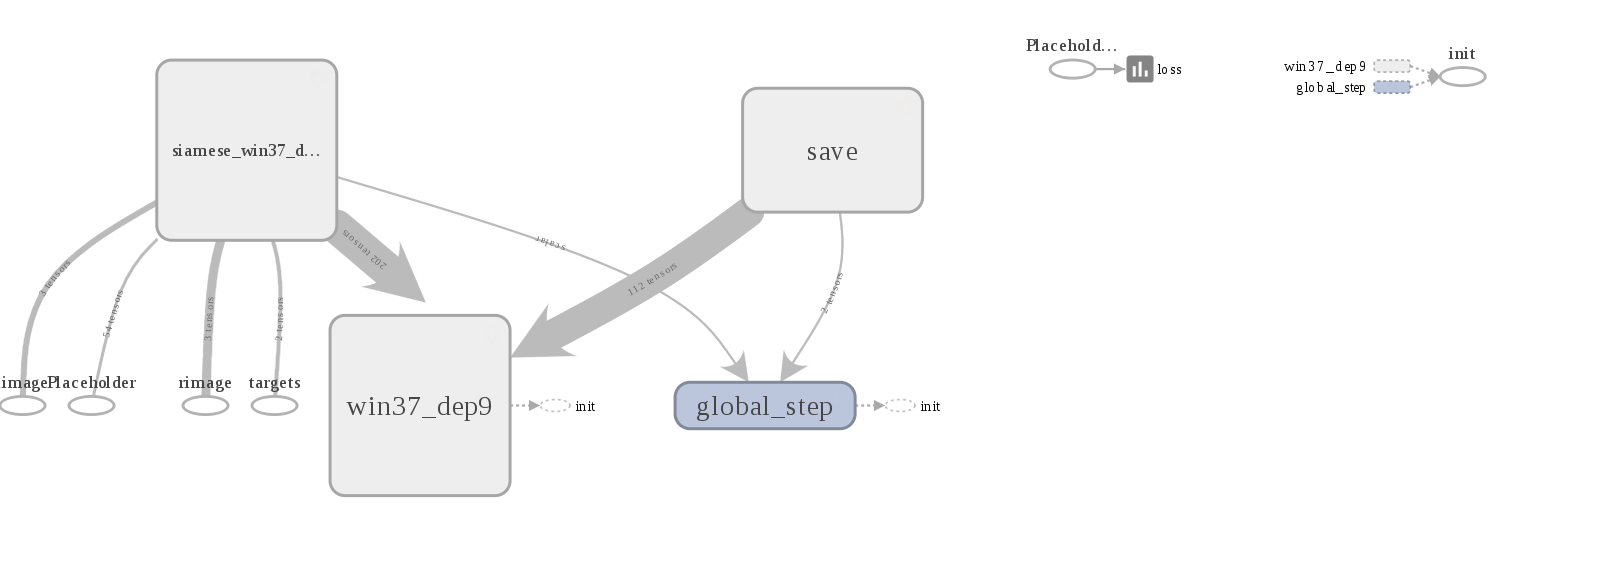
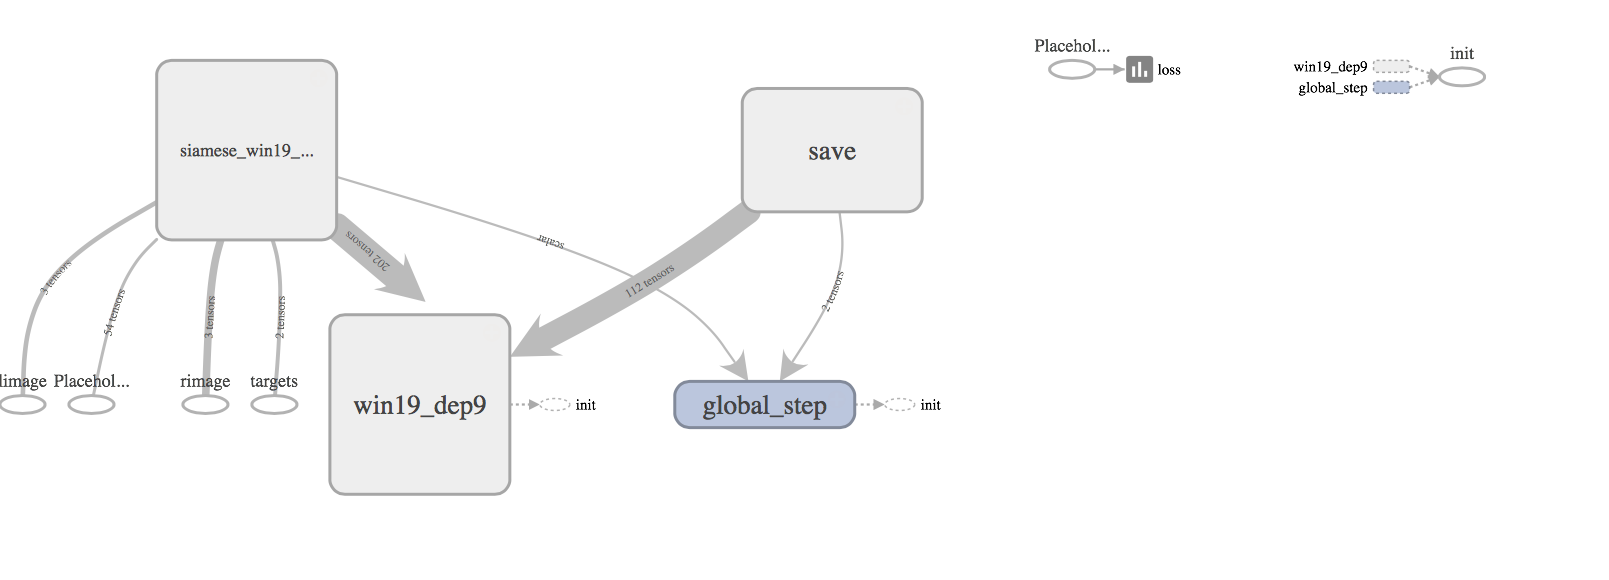
Update readme

diff --git a/models/net_factory.py b/models/net_factory.py
@@ -1,6 +1,6 @@
 import tensorflow as tf
-import win19_dep9 as net19
-import win37_dep9 as net37
+import models.win19_dep9 as net19
+import models.win37_dep9 as net37
 from tensorflow.python.ops import control_flow_ops
 slim = tf.contrib.slim
 

diff --git a/test_images.py b/test_images.py
@@ -1,6 +1,6 @@
 import tensorflow as tf
 import os
-import net_factory as nf
+import models.net_factory as nf
 import numpy as np
 from data_handler import Data_handler
 from scipy import misc

diff --git a/train.py b/train.py
@@ -1,6 +1,6 @@
 import tensorflow as tf
 import os
-import net_factory as nf
+import models.net_factory as nf
 import numpy as np
 from data_handler import Data_handler
 

diff --git a/README.md b/README.md
@@ -9,20 +9,62 @@ at: https://bitbucket.org/saakuraa/cvpr16_stereo_public/overview
 #### Detailed view
 ![](figures/win_37_dep9_graph_detail.png)
 
-### Results
-Current results using win19_dep9 and win37_dep9 architectures, trained over 24 000 training steps (batch size = 128).
 
-| Network  | Val. >3 error | Test >3 error | Runtime (sec.) |
-| ------------- | ------------- |------------- | ------------- |
-| win19_dep9   |  10.00 | x   |  x |
-| win37_dep9  | 7.59  | y   |  x |
+## Installation
+1. Install Tensorflow
 
-### Training
-Cross-entropy Loss evolution (horizontal axes represent the the number of iterations * 100):
-(green=win19_dep9, yellow=win37_dep9)
+2. Clone the repository 
+
+```
+git clone https://github.com/fjulca-aguilar/dl_stereo_matching.git
+```
+## Training new models
+New models can be trained using
+
+```
+python train.py --util_root=PATH_BINARY \
+--data_root=PATH_DATABASE \
+--net_type=win19_dep9 \
+--patch_size=19 \
+--model_dir=MODEL_DIR \
+--phase=train &
+```
+The training and evaluation schemes use the same training data and 
+similar parameters to the ones defined at 
+https://bitbucket.org/saakuraa/cvpr16_stereo_public/overview
+
+Training evolution and graphs can be seen using Tensorboard. 
+The following image shows examples of Cross-entropy Loss 
+evolution for 40 000 training steps (horizontal axes represent the the number of 
+iterations * 100): (blue = win19_dep9, green = win37_dep9)
 
 ![](figures/loss.png)
 
 
+## Evaluation on validation patches
+Trained models can be evaluated on validation patches using
 
+```
+python train.py --util_root=PATH_BINARY \
+--data_root=PATH_DATABASE \
+--net_type=win19_dep9 \
+--patch_size=19 
+--model_dir=MODEL_DIR
+--phase=evaluate &
+```
 
+## Testing on images 
+Evaluation on images can be done using
+
+```
+python test_images.py \ 
+--out_dir=OUT_IMAGES_DIR \
+--model_dir=MODEL_DIR \
+--data_root=PATH_DATABASE \
+--util_root= PATH_BINARY\
+--net_type=win19_dep9 \
+--patch_size=19 \
+--num_imgs=10 &
+```
+The script generates `num_imgs` disparity images and saves them 
+at the OUT_IMAGES_DIR directory
